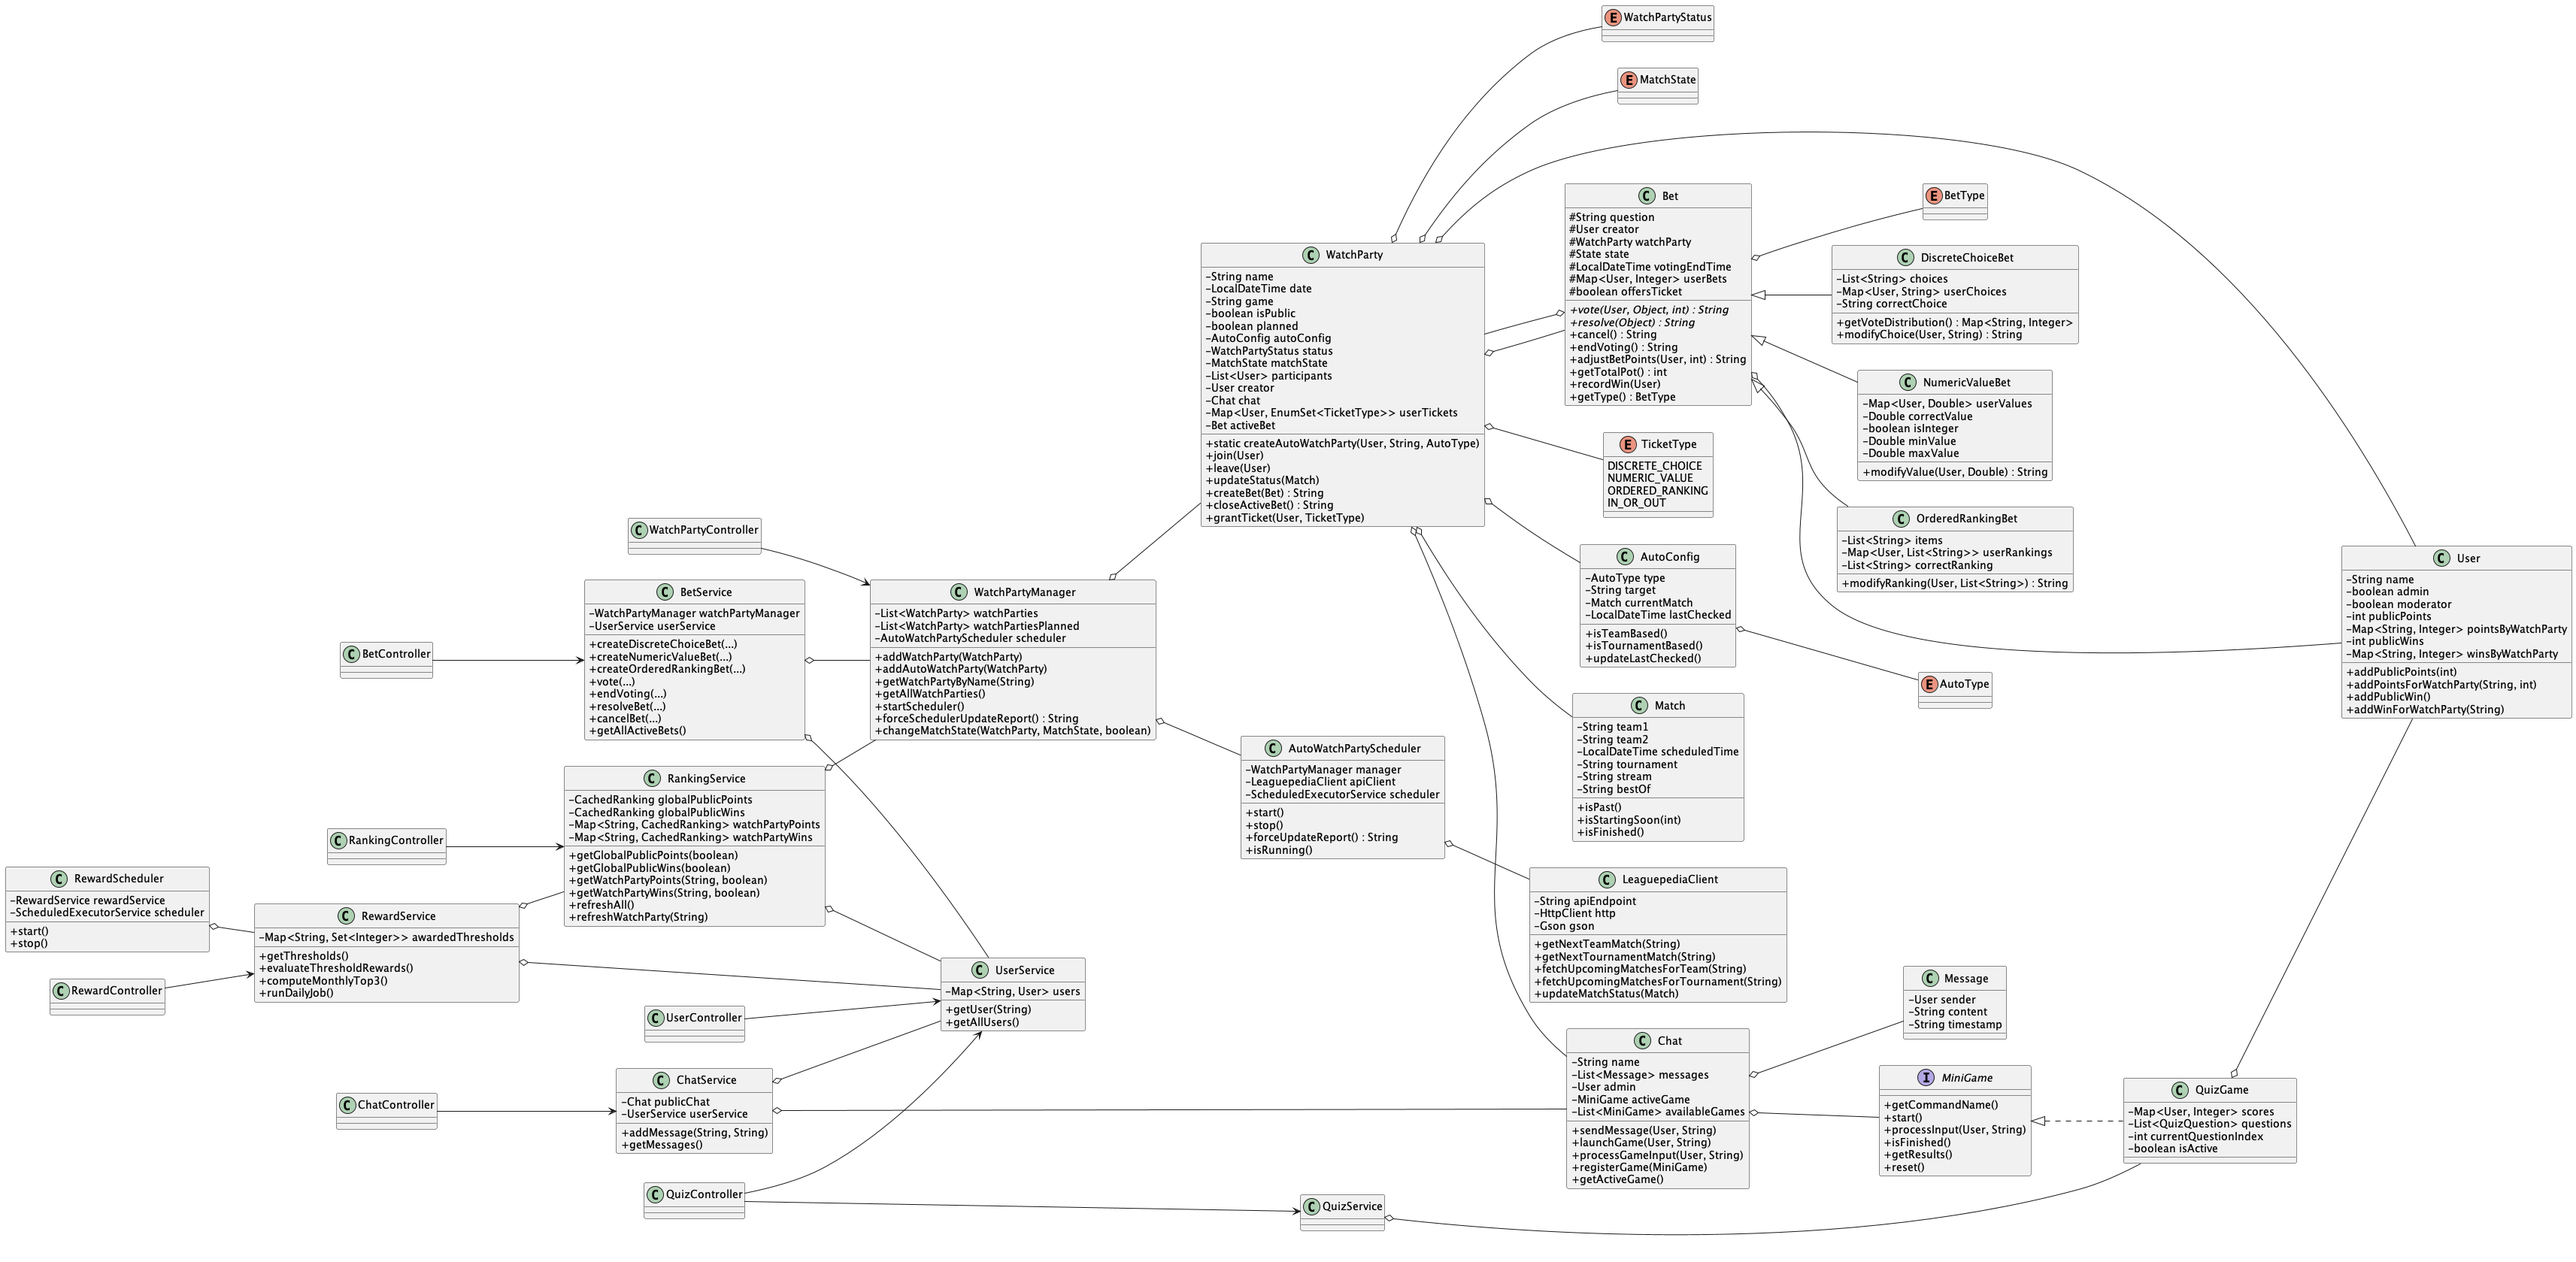
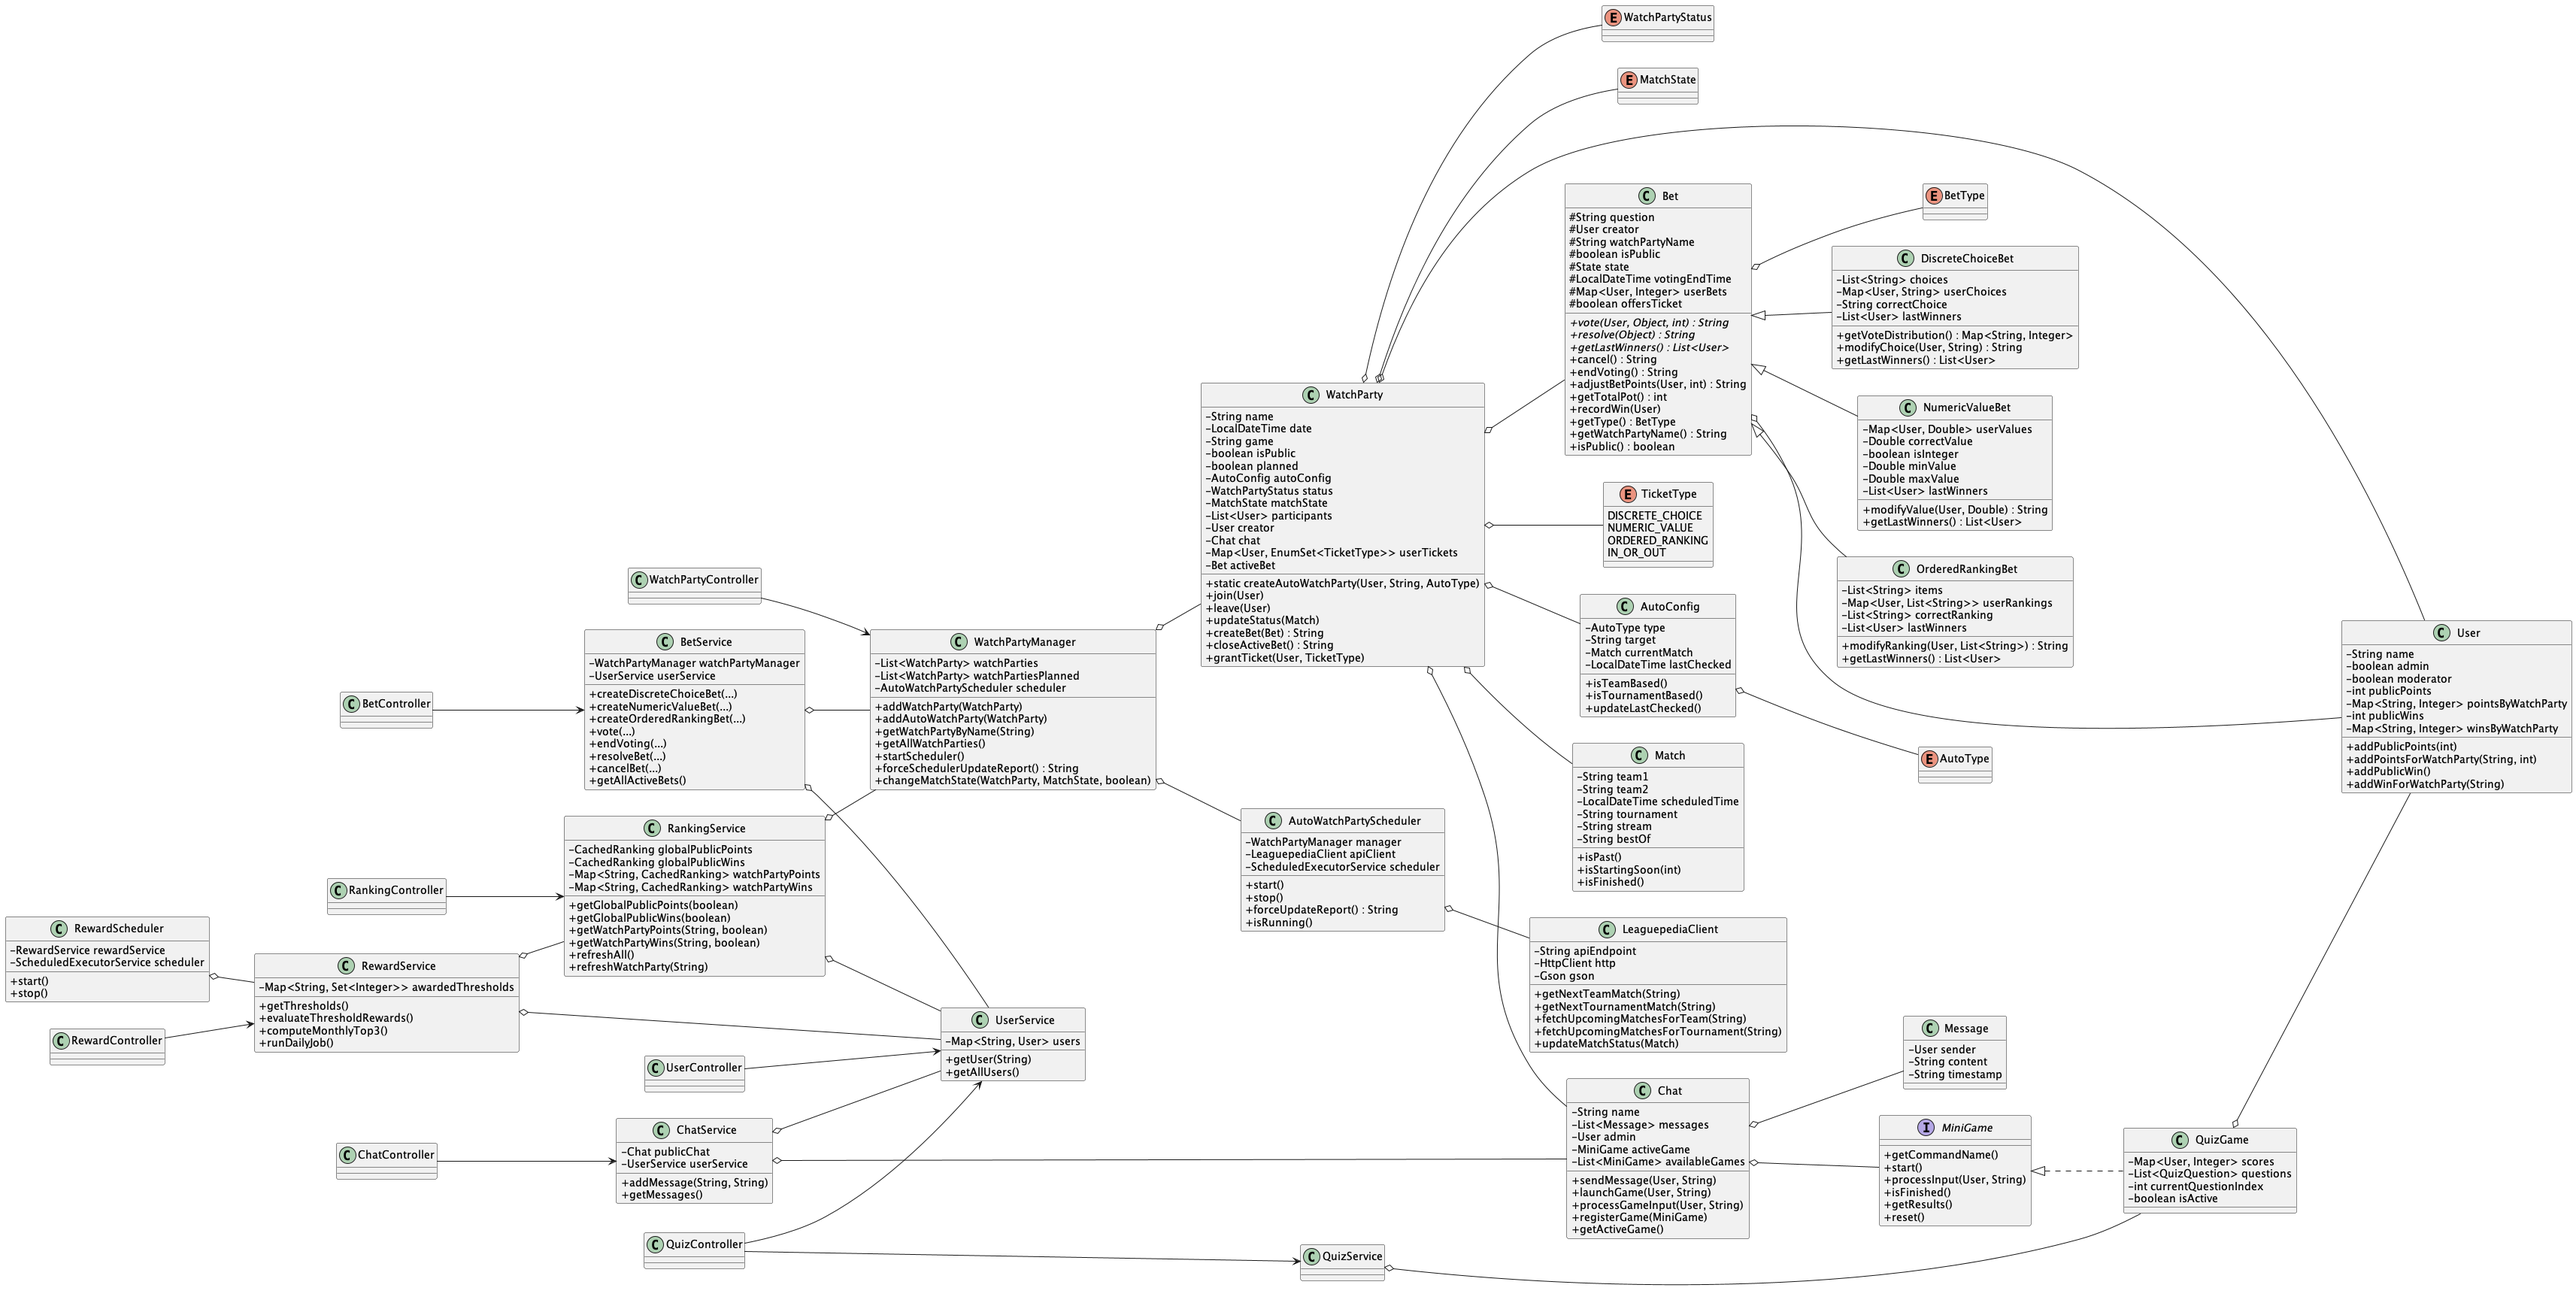
mise à jour du document md pour la documentaion

diff --git a/docs/doc.md b/docs/doc.md
@@ -2,6 +2,7 @@
 
 # Projet
 ## Nom
+/alll en référence aux premières lettres de nos prénoms et /all couramment utilisé pour désigner l’ensemble des personnes présentes dans une room.
 ## Objectif
 L’objectif est de proposer un environnement interactif autour d’un match e‑sport, en combinant plusieurs fonctionnalités dont des paris par exemple. L’application vise à offrir une expérience immersive et communautaire.
 
@@ -36,23 +37,28 @@ Une watchparty est automatiquement créée lorsqu’un match e‑sport est déte
 ### Ce que ça fait :
 Le système de chat repose sur deux types d’espaces : les chats publics et les chats privés. Chaque watchparty possède son propre chat, accessible uniquement aux utilisateurs qui y participent. Quelques minutes avant le début du match, les participants peuvent commencer à échanger, envoyer des messages, réagir et participer à des mini‑jeux intégrés. Le chat devient ainsi un espace central d’interaction sociale autour de l’événement, renforçant l’aspect communautaire de la plateforme.
 
-### Difficulté :
 
 ## Pari
 ### Ce que ça fait :
 
-Le système de paris est étroitement lié aux watchparties. Lorsqu’un match est en cours, des paris peuvent être proposés aux utilisateurs, qu’ils soient publics ou privés selon le type de watchparty. Chaque utilisateur dispose d’un nombre de points qu’il peut miser. En cas de victoire, les gains sont automatiquement calculés en fonction des mises des autres participants. Les paris sont limités dans le temps, ce qui ajoute une dimension stratégique.
+Le système de paris est étroitement lié aux watchparties. Lorsqu’un match est en cours, des paris peuvent être proposés aux utilisateurs, qu’ils soient publics ou privés selon le type de watchparty. Chaque utilisateur dispose d’un nombre de points, propre à chaque watchparty, qu’il peut miser. En cas de victoire, les gains sont automatiquement calculés en fonction du pot total et de la proximité entre la réponse du parieur et la bonne réponse (pour les paris dit à classement et à valeur numérique). Les paris sont limités dans le temps, ce qui ajoute une dimension stratégique.
 Trois types de paris sont disponibles :
 -   les paris à réponse fermée avec choix, où l’utilisateur sélectionne une option parmi plusieurs propositions ;
--   les paris à réponse fermée avec classement, où l’utilisateur doit ordonner une liste (par exemple, les joueurs selon leur performance) ;
--   les paris à réponse ouverte, où l’utilisateur saisit une valeur numérique ou textuelle.
+-   les paris à réponse fermée avec classement, où l’utilisateur doit fournir une liste ordonnée (par exemple, les joueurs selon leur performance) ;
+-   les paris à réponse ouverte, où l’utilisateur saisit une valeur numérique.
 Deux systèmes de points coexistent : un système public et un système privé, permettant d’adapter les paris au contexte de la watchparty.
 
 ### Difficulté :
 
-## Classement
+Implémenter la logique de répartition des gains après certains paris (notamment pour les listes et valeur numérique)
+
+## Récompenses
 ### Ce que ça fait :
-Le classement regroupe l’ensemble des utilisateurs en fonction des points qu’ils ont accumulés via les paris et les mini‑jeux. Il est mis à jour automatiquement et permet de valoriser les utilisateurs les plus actifs et les plus performants. Cette fonctionnalité renforce l’aspect compétitif et communautaire de la plateforme.
+Le système de récompenses combine progression, paris et classement : au fil des watchparty publiques, les joueurs cumulent des points qui cumulent de manière globale leur permettant de franchir des paliers (1000, 5000, 10 000, etc.) qui déclenchent l’option de  récupération de récompenses. Certains paris spéciaux peuvent offrir des tickets : une fois gagnés, ces tickets permettent d’agir sur un pari en attente (IN_OR_OUT pour ajuster sa mise, ou un ticket lié au type de pari pour influer sur la valeur soumise). Enfin, chaque fin de mois, le top 3 du classement global (points et victoires de paris) reçoit des récompenses mensuelles, valorisant à la fois la régularité et la performance sur les paris.
+
+### Difficulté :
+
+Trouver les bonnes récompenses à offrir pour satisfaire les utilisateurs
 ## Lien avec un événement e-sport
 ### Ce que ça fait :
 L’application est directement connectée à une API spécialisée dans les compétitions de _League of Legends_. Elle récupère automatiquement les matchs à venir et crée les watchparties correspondantes. Cette automatisation permet d’assurer une synchronisation totale entre l’événement réel et la plateforme, sans intervention manuelle. Les utilisateurs peuvent ainsi suivre les matchs en temps réel et interagir dès qu’un nouvel événement est détecté.
@@ -61,3 +67,5 @@ L’application est directement connectée à une API spécialisée dans les com
 Une fonctionnalité est considérée comme terminée lorsqu’elle dispose d’une API REST fonctionnelle, testée via des tests unitaires et d’intégration, validée par les outils d’analyse de qualité (sonarcloud).
 
 # Utilisation de l'IA
+L'IA a été utilisé afin de familiariser les développeurs avec les nouvelles technologies disponibles et employées. Par exemple lors de la compréhension et mise en place de l'API REST.
+
